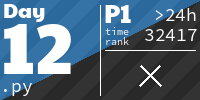
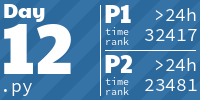
2023-12: Hot Springs - Part 2
Took a while and i ended up needing help lol

diff --git a/2023/12-Hot-Springs.py b/2023/12-Hot-Springs.py
@@ -5,46 +5,52 @@
 #     python 2023/12-Hot-Springs.py < 2023/inputs/12.txt
 
 import sys
-from itertools import product
-
 
 INPUT_LINES = [line.strip() for line in sys.stdin if line.strip()]
 
 
-def isArrangementPossible(arrangement: list[str], damagedGroups: list[int]) -> bool:
-    thisArrangementsGroups = [0]
-    for char in arrangement:
-        if char == "#":
-            thisArrangementsGroups[-1] += 1
-        elif thisArrangementsGroups[-1]:
-            thisArrangementsGroups.append(0)
+def countPossibleArrangements(springs: list[str], damagedGroups: list[int]) -> int:
+    states = "." + ".".join(["#" * group for group in damagedGroups]) + "."
+
+    previousDict = {0: 1}
+    nextDict = {}
+    for char in springs:
+        for stateIndex, count in previousDict.items():
+            if char == "?":
+                if stateIndex + 1 < len(states):
+                    nextDict[stateIndex + 1] = nextDict.get(stateIndex + 1, 0) + count
+                if states[stateIndex] == ".":
+                    nextDict[stateIndex] = nextDict.get(stateIndex, 0) + count
+
+            elif char == ".":
+                if stateIndex + 1 < len(states) and states[stateIndex + 1] == ".":
+                    nextDict[stateIndex + 1] = nextDict.get(stateIndex + 1, 0) + count
+                if states[stateIndex] == ".":
+                    nextDict[stateIndex] = nextDict.get(stateIndex, 0) + count
+
+            elif char == "#":
+                if stateIndex + 1 < len(states) and states[stateIndex + 1] == "#":
+                    nextDict[stateIndex + 1] = nextDict.get(stateIndex + 1, 0) + count
+        
+        previousDict = nextDict
+        nextDict = {}
     
-    if not thisArrangementsGroups[-1]:
-        thisArrangementsGroups.pop(-1)
-    
-    return thisArrangementsGroups == damagedGroups
+    return previousDict.get(len(states) - 1, 0) + previousDict.get(len(states) - 2, 0)
 
 
-def getNumberOfDifferentArrangements(line: str) -> int:
+
+beforeUnfolding = 0
+afterUnfolding = 0
+for line in INPUT_LINES:
     damagedGroups: list[int] = [int(num) for num in line.split()[1].split(",")]
     springsString = line.split()[0]
-    springsList = []
-    unknownSpringsCount = 0
-    for spring in springsString:
-        if spring == "?":
-            springsList.append(unknownSpringsCount)
-            unknownSpringsCount += 1
-        else:
-            springsList.append(spring)
-    
-    possibleCombinations = 0
-    for possibleSprings in product(".#", repeat=unknownSpringsCount):
-        possibleCombinations += isArrangementPossible(
-            [possibleSprings[i] if type(i) == int else i for i in springsList],
-            damagedGroups)
-
-    return possibleCombinations
+    beforeUnfolding += countPossibleArrangements(
+        springsString, damagedGroups)
+    afterUnfolding += countPossibleArrangements(
+        "?".join([springsString] * 5), damagedGroups * 5)
 
 
-print("Total Number of Arrangements:",
-    sum([getNumberOfDifferentArrangements(line) for line in INPUT_LINES]))
+print("Total Number of Arrangements:", beforeUnfolding)
+
+print("Total Number of Arrangements After Unfolding:", afterUnfolding)
+

diff --git a/README.md b/README.md
@@ -2,12 +2,12 @@
   JoeBlakeB's Advent of Code Solutions
 </h1>
 
-![](https://img.shields.io/badge/Total_Stars-115_⭐-blue)
-![](https://img.shields.io/badge/Total_Lines_of_Code-3130-blue)
+![](https://img.shields.io/badge/Total_Stars-116_⭐-blue)
+![](https://img.shields.io/badge/Total_Lines_of_Code-3133-blue)
 
 <!-- AOC TILES BEGIN -->
 <h1 align="center">
-  2023 - 23 ⭐
+  2023 - 24 ⭐
 </h1>
 <a href="2023/01-Trebuchet.py">
   <img src=".github/AoCTiles/images/2023/01.png" width="161px" style="style='min-width: calc(20 % - 4px);'">
